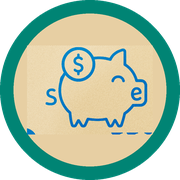
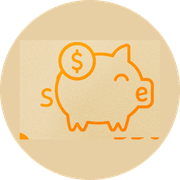
Add files via upload

diff --git a/nuxt.config.ts b/nuxt.config.ts
@@ -13,13 +13,13 @@ export default defineNuxtConfig({
       meta: [
         { charset: 'utf-8' },
         { name: 'viewport', content: 'width=device-width, initial-scale=1' },
-        { name: 'theme-color', content: '#008474' },
+        { name: 'theme-color', content: '#E7CFA3' },
         { name: 'description', content: 'Sow Well Everyday — o controle financeiro da família.' }
       ],
       link: [
         // porquinho da marca, embutido para carregar sempre
         { rel: 'icon', type: 'image/png',
[2 lines of base64/hex data omitted]
         { rel: 'apple-touch-icon', href: '/sowwell/apple-touch-icon.png' },
         { rel: 'preconnect', href: 'https://fonts.googleapis.com' },
         { rel: 'preconnect', href: 'https://fonts.gstatic.com', crossorigin: '' },

diff --git a/assets/css/main.css b/assets/css/main.css
@@ -11,8 +11,10 @@
   --azul-forte:  #005A91;
   --azul-suave:  #E4F0F9;
   --azul-borda:  #B9D8EC;
-  --verde-marca: #008474;   /* borda da logo */
+  --verde-marca: #00614F;   /* verde profundo da marca */
   --creme:       #E7CFA3;   /* fundo da logo */
+  --laranja:     #F59100;   /* laranja da logo */
+  --laranja-suave: #FFF1DC;
 
   /* --- texto e superfícies --- */
   --tinta:    #16202E;
@@ -99,26 +101,21 @@ a { color: inherit; }
 
 .barra {
   width: 244px; flex: 0 0 244px;
-  background: linear-gradient(168deg, var(--verde-marca) 0%, #00614F 100%);
+  background: linear-gradient(168deg, #00806E 0%, #004F41 100%);
   color: #fff; padding: 24px 16px; position: sticky; top: 0; height: 100vh;
   display: flex; flex-direction: column;
 }
-.marca { display: flex; align-items: center; gap: 11px; }
+.marca { display: grid; place-items: center; gap: 10px; text-align: center; }
 .marca-logo {
-  width: 42px; height: 42px; flex: 0 0 42px; border-radius: 50%;
-  box-shadow: 0 2px 8px rgba(0,0,0,.2);
+  width: 118px; height: 118px; border-radius: 50%;
+  box-shadow: 0 4px 16px rgba(0,0,0,.22);
 }
-.marca-nome {
-  font-family: var(--titulo); font-size: 1.16rem; font-weight: 800;
-  color: #fff; line-height: 1.05; letter-spacing: -.02em;
+.marca-familia {
+  font-family: var(--titulo); font-size: .82rem; font-weight: 700;
+  letter-spacing: .12em; text-transform: uppercase;
+  color: rgba(255,255,255,.9); line-height: 1.2;
 }
-.marca-nome em { font-style: normal; font-weight: 700; opacity: .92; }
-.marca span {
-  display: block; font-size: .6rem; font-weight: 600;
-  letter-spacing: .18em; text-transform: uppercase;
-  color: rgba(255,255,255,.72); margin-top: 3px;
-}
-.regua-latao { height: 1px; background: rgba(255,255,255,.22); margin: 20px 0; }
+.regua-latao { height: 1px; background: rgba(255,255,255,.2); margin: 18px 0; }
 
 .menu { display: grid; gap: 3px; }
 .menu a {
@@ -129,7 +126,7 @@ a { color: inherit; }
 }
 .menu a:hover { background: rgba(255,255,255,.12); color: #fff; }
 .menu a.router-link-active {
-  background: #fff; color: var(--verde-marca); font-weight: 700;
+  background: #fff; color: #00614F; font-weight: 700;
   box-shadow: 0 4px 12px -4px rgba(0,0,0,.2);
 }
 .menu .ic {
@@ -138,7 +135,7 @@ a { color: inherit; }
   background: rgba(255,255,255,.14);
 }
 .menu .ic .mi { font-size: 17px; vertical-align: 0; }
-.menu a.router-link-active .ic { background: #E0F2EE; color: var(--verde-marca); }
+.menu a.router-link-active .ic { background: var(--laranja-suave); color: var(--laranja); }
 
 .menu a.travado { color: rgba(255,255,255,.45); }
 .menu a.travado .ic { background: rgba(255,255,255,.08); }
@@ -338,12 +335,12 @@ input:disabled, select:disabled { background: var(--papel); color: var(--tinta-4
 /* --------------------------------------------------------- login */
 .portao {
   min-height: 100vh; display: grid; place-items: center;
-  background: linear-gradient(150deg, var(--verde-marca) 0%, #00554A 100%);
+  background: linear-gradient(150deg, #00806E 0%, #00463A 100%);
   padding: 20px;
 }
 .portao-logo {
-  width: 92px; height: 92px; display: block; margin: 0 auto 14px;
-  border-radius: 50%; box-shadow: 0 6px 18px -6px rgba(0,0,0,.35);
+  width: 128px; height: 128px; display: block; margin: -8px auto 12px;
+  border-radius: 50%; box-shadow: 0 8px 22px -8px rgba(0,0,0,.3);
 }
 .portao-caixa {
   width: 100%; max-width: 400px; background: var(--carta);
@@ -351,8 +348,8 @@ input:disabled, select:disabled { background: var(--papel); color: var(--tinta-4
   box-shadow: 0 30px 70px -20px rgba(0,0,0,.45);
 }
 .portao-marca {
-  font-family: var(--titulo); font-size: 1.7rem; font-weight: 800;
-  text-align: center; letter-spacing: -.03em; color: var(--azul);
+  font-family: var(--titulo); font-size: 1.6rem; font-weight: 800;
+  text-align: center; letter-spacing: -.03em; color: var(--laranja);
 }
 .portao-marca em { font-style: normal; font-weight: 700; }
 .portao-sub {
@@ -415,6 +412,8 @@ input:disabled, select:disabled { background: var(--papel); color: var(--tinta-4
 
 @media (max-width: 760px) {
   body { font-size: 14px; }
+  .portao-logo { width: 100px; height: 100px; }
+  .portao-caixa { padding: 26px 22px; }
 
   .barra { display: none; }
   .palco { padding: 14px 12px 88px; }

diff --git a/layouts/default.vue b/layouts/default.vue
@@ -120,11 +120,8 @@ async function sair() {
   <div v-else class="moldura">
     <aside class="barra">
       <div class="marca">
-        <img :src="arquivo('logo.png')" alt="" class="marca-logo" />
-        <div>
-          <div class="marca-nome">Sow<em>Well</em></div>
-          <span>{{ familia || 'Everyday' }}</span>
-        </div>
+        <img :src="arquivo('logo.png')" alt="Sow Well Everyday" class="marca-logo" />
+        <span class="marca-familia">{{ familia || 'Everyday' }}</span>
       </div>
       <div class="regua-latao"></div>
       <nav class="menu">
